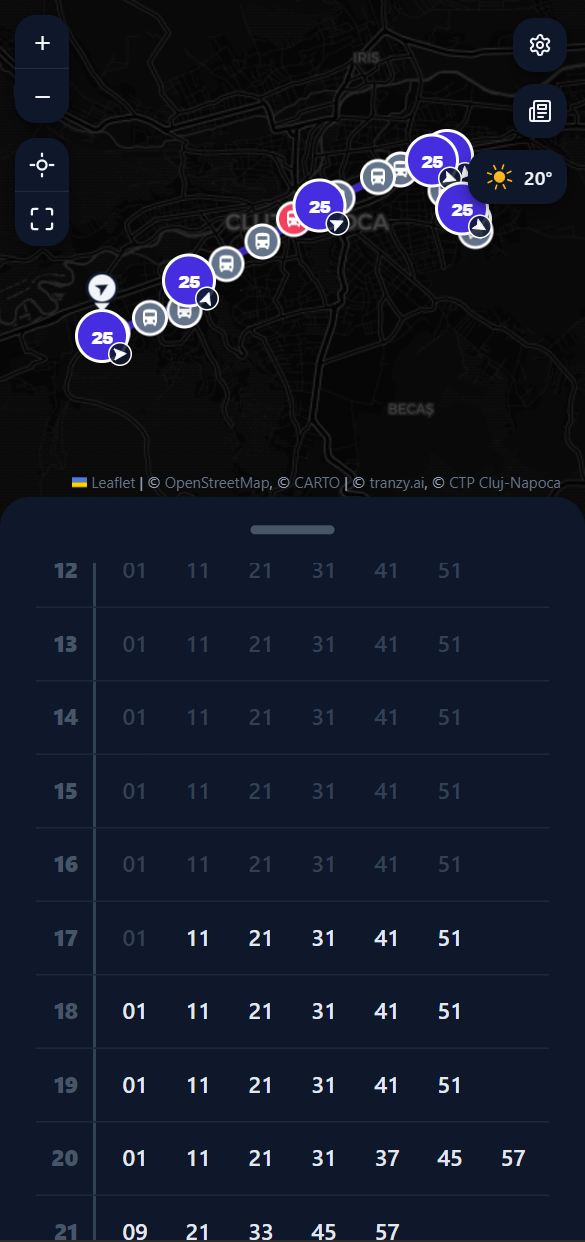
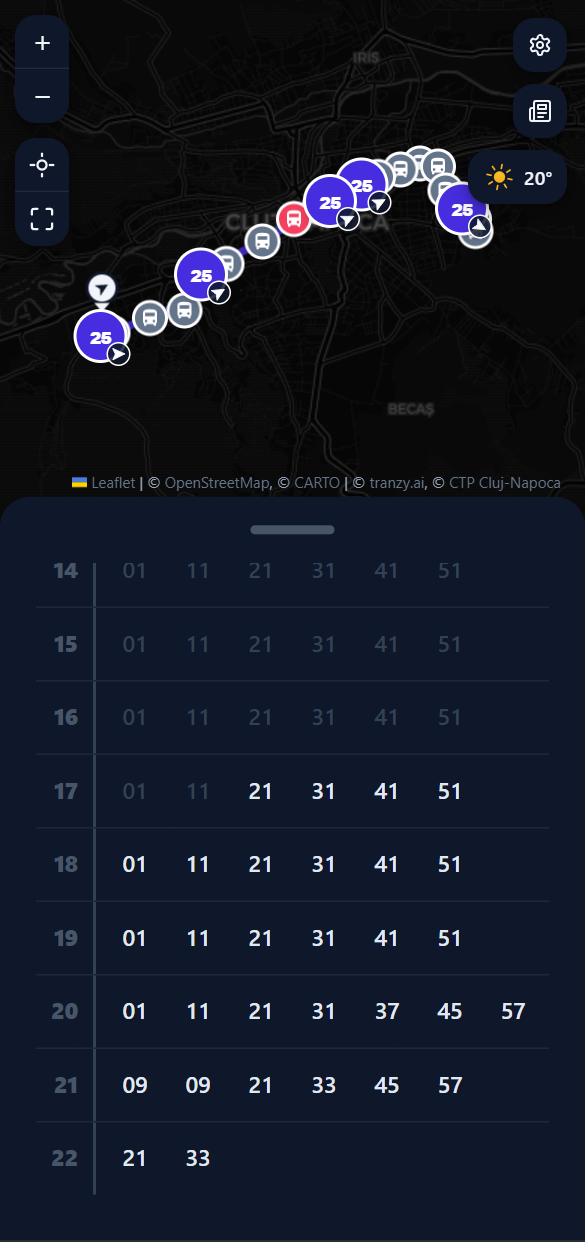
Readme update

diff --git a/README.md b/README.md
@@ -29,10 +29,16 @@ There are a few hidden things scattered around for the curious. 🐣
 
 ### Themes
 
-<p align="center">
-  <img src="readme/themes-light.png" width="380" alt="The stop screen split into four slices: Default, Arcade, Legacy Blue and Paper, in light mode">
-  <img src="readme/themes-dark.png" width="380" alt="The same four themes in dark mode">
-</p>
+<table>
+  <tr>
+    <td align="center"><img src="readme/theme-default.png" width="380" alt="The default theme, light and dark"><br><sub>Default</sub></td>
+    <td align="center"><img src="readme/theme-arcade.png" width="380" alt="The Arcade theme, light and dark"><br><sub>Arcade</sub></td>
+  </tr>
+  <tr>
+    <td align="center"><img src="readme/theme-legacy-blue.png" width="380" alt="The Legacy Blue theme, light and dark"><br><sub>Legacy Blue</sub></td>
+    <td align="center"><img src="readme/theme-paper.png" width="380" alt="The Paper theme, light and dark"><br><sub>Paper</sub></td>
+  </tr>
+</table>
 
 ### On a watch
 
